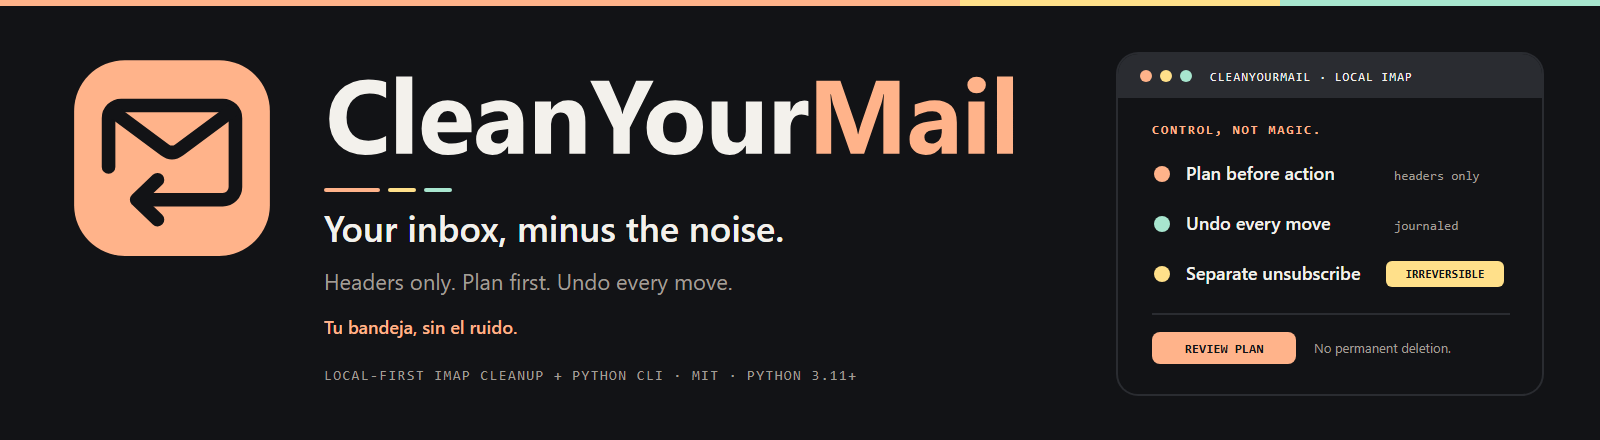
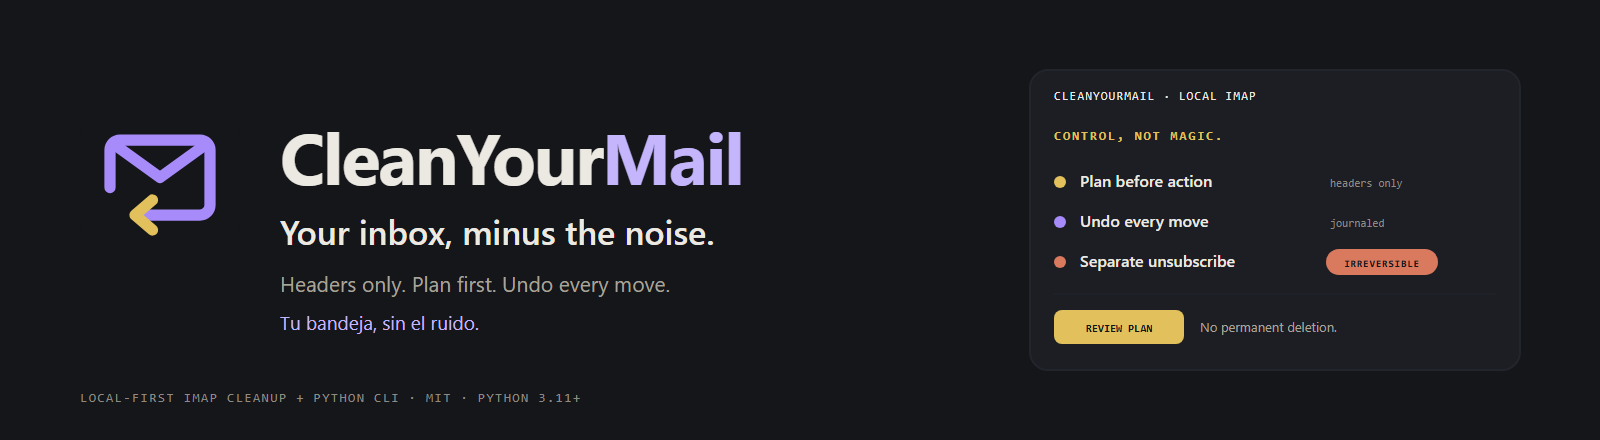
site: align the brand with CleanYourPhone
- Use the family Return Fold: lavender envelope and gold return arrow.\n- Move the site to the CleanYourPhone palette: #15161A, #E2C15C, #A78BFA, #C4B5FD.\n- Use coral only for the irreversible unsubscribe warning.\n- Replace the logo, favicon, banner and OG card.\n- Color the Mail wordmark in lavender bright.\n\nTests: python -m unittest discover -s tests -v (16 OK).

diff --git a/styles.css b/styles.css
@@ -1,16 +1,17 @@
 :root {
-  --ink: #121316;
-  --ink-2: #17181c;
-  --panel: #1b1c21;
-  --panel-2: #2a2c31;
-  --text: #f3f1ec;
-  --muted: #a19e96;
-  --muted-2: #8b8881;
-  --accent: #ffb38a;
-  --accent-2: #a8e6cf;
-  --warn: #ffe08a;
-  --line: rgba(243, 241, 236, 0.12);
-  --line-strong: rgba(243, 241, 236, 0.2);
+  --ink: #15161a;
+  --ink-2: #101114;
+  --panel: #1c1e24;
+  --panel-2: #23252d;
+  --text: #ece9e2;
+  --muted: #a8a39b;
+  --muted-2: #8e8a82;
+  --accent: #e2c15c;
+  --accent-2: #a78bfa;
+  --lavender: #c4b5fd;
+  --warn: #d97a5e;
+  --line: rgba(236, 233, 226, 0.12);
+  --line-strong: rgba(236, 233, 226, 0.2);
   --radius: 14px;
   --max: 1120px;
   --mono: "Cascadia Code", "SFMono-Regular", Consolas, "Liberation Mono", monospace;
@@ -25,9 +26,8 @@ body {
   margin: 0;
   color: var(--text);
   background:
-    radial-gradient(900px 520px at 78% -10%, rgba(255, 179, 138, 0.1), transparent 62%),
-    radial-gradient(700px 460px at 8% 16%, rgba(168, 230, 207, 0.07), transparent 60%),
-    radial-gradient(620px 420px at 50% 100%, rgba(255, 224, 138, 0.05), transparent 60%),
+    radial-gradient(900px 520px at 78% -10%, rgba(226, 193, 92, 0.05), transparent 62%),
+    radial-gradient(700px 460px at 8% 16%, rgba(167, 139, 250, 0.08), transparent 60%),
     var(--ink);
   font-family: var(--sans);
   font-size: 16px;
@@ -45,9 +45,9 @@ img { max-width: 100%; }
 code {
   font-family: var(--mono);
   font-size: 0.9em;
-  color: var(--accent);
-  background: rgba(255, 179, 138, 0.08);
-  border: 1px solid rgba(255, 179, 138, 0.16);
+  color: var(--accent-2);
+  background: rgba(167, 139, 250, 0.08);
+  border: 1px solid rgba(167, 139, 250, 0.16);
   border-radius: 5px;
   padding: 0.08em 0.32em;
 }
@@ -114,7 +114,7 @@ button { font: inherit; }
 
 .brand img { width: 32px; height: 32px; }
 
-.brand-accent { color: var(--accent); }
+.brand-accent { color: var(--lavender); }
 
 .nav {
   display: flex;
@@ -174,7 +174,7 @@ button { font: inherit; }
 
 .eyebrow {
   margin: 0 0 18px;
-  color: var(--accent);
+  color: var(--accent-2);
   font-size: 11.5px;
   font-weight: 700;
   letter-spacing: 0.16em;
@@ -243,7 +243,7 @@ h1 em {
   color: var(--ink);
 }
 
-.button-primary:hover { background: #c9ff7d; }
+.button-primary:hover { background: #efd07a; }
 
 .button-ghost {
   background: transparent;
@@ -252,7 +252,7 @@ h1 em {
 }
 
 .button-ghost:hover {
-  background: rgba(238, 248, 238, 0.04);
+  background: rgba(236, 233, 226, 0.04);
   border-color: var(--muted);
 }
 
@@ -290,9 +290,9 @@ h1 em {
   background: var(--muted-2);
 }
 
-.terminal-bar span:nth-child(1) { background: var(--accent); }
-.terminal-bar span:nth-child(2) { background: var(--warn); }
-.terminal-bar span:nth-child(3) { background: var(--accent-2); }
+.terminal-bar span:nth-child(1) { background: var(--accent-2); }
+.terminal-bar span:nth-child(2) { background: var(--lavender); }
+.terminal-bar span:nth-child(3) { background: var(--accent); }
 
 .terminal-bar em {
   margin-left: auto;
@@ -394,7 +394,7 @@ h1 em {
 
 .kicker {
   margin: 0 0 10px;
-  color: var(--accent);
+  color: var(--accent-2);
   font-size: 11px;
   font-weight: 700;
   letter-spacing: 0.16em;
@@ -468,7 +468,7 @@ h2 {
   background: none;
   border: 0;
   padding: 0;
-  color: var(--accent);
+  color: var(--accent-2);
   font-size: 13.5px;
   font-weight: 700;
 }
@@ -530,7 +530,7 @@ h2 {
 
 .section-link a,
 .section-note a {
-  color: var(--accent);
+  color: var(--accent-2);
   text-decoration: none;
 }
 

diff --git a/es.html b/es.html
@@ -7,7 +7,7 @@
   <meta name="description" content="Limpieza de correo gratuita y open source para agentes y CLI. Funciona en local, lee solo cabeceras, protege lo importante, planifica primero y deshace movimientos.">
   <meta name="author" content="Jose Paredes">
   <meta name="robots" content="index,follow">
-  <meta name="theme-color" content="#121316">
+  <meta name="theme-color" content="#15161A">
   <meta name="color-scheme" content="dark">
   <meta name="referrer" content="strict-origin-when-cross-origin">
   <meta http-equiv="Content-Security-Policy" content="default-src 'self'; base-uri 'none'; object-src 'none'; form-action 'none'; img-src 'self' data:; style-src 'self'; script-src 'self' 'sha256-GIGHQXL5NifPfjhASnbZLm52C9TuvoQgaUKA5IEOH1M='; connect-src 'none'; font-src 'self'; upgrade-insecure-requests">

diff --git a/index.html b/index.html
@@ -7,7 +7,7 @@
   <meta name="description" content="Free, open-source inbox cleanup for coding agents and the CLI. Runs locally, reads headers only, protects important mail, plans first and undoes every move.">
   <meta name="author" content="Jose Paredes">
   <meta name="robots" content="index,follow">
-  <meta name="theme-color" content="#121316">
+  <meta name="theme-color" content="#15161A">
   <meta name="color-scheme" content="dark">
   <meta name="referrer" content="strict-origin-when-cross-origin">
   <meta http-equiv="Content-Security-Policy" content="default-src 'self'; base-uri 'none'; object-src 'none'; form-action 'none'; img-src 'self' data:; style-src 'self'; script-src 'self' 'sha256-3POj6yu0mNaYIVmlOCtewK0YCbI3DySUpf/dDaWlAW4='; connect-src 'none'; font-src 'self'; upgrade-insecure-requests">

diff --git a/README.md b/README.md
@@ -50,10 +50,10 @@ Open <http://localhost:8080/>.
 
 ## Brand assets
 
-The website uses the app-first **Spectrum** direction: carbon canvas `#121316`, pastel orange
-`#FFB38A` Return Fold, mint `#A8E6CF` journal/undo and pastel yellow `#FFE08A` attention. The primary
-brand package lives in the skill repository at `brand/final-spectrum/`; the Forest/Lime palette is
-kept as the classic CLI alternate in `brand/final/`.
+The website uses the app-first **Family** direction, aligned with CleanYourPhone: carbon canvas
+`#15161A`, lavender `#A78BFA` envelope, gold `#E2C15C` return arrow, and a lavender-bright `Mail`
+wordmark. The primary brand package lives in the skill repository at `brand/final-family/`; the
+earlier Spectrum Pastel and Forest/Lime palettes remain as alternates.
 
 The files in `assets/brand/` are earlier Forest/Lime explorations kept for reference.
 
